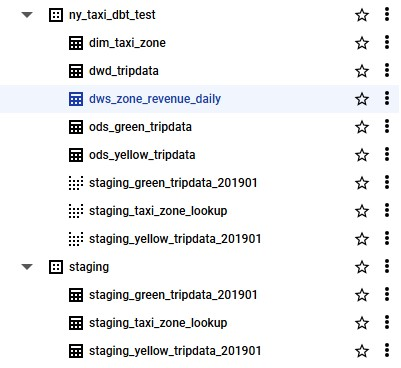
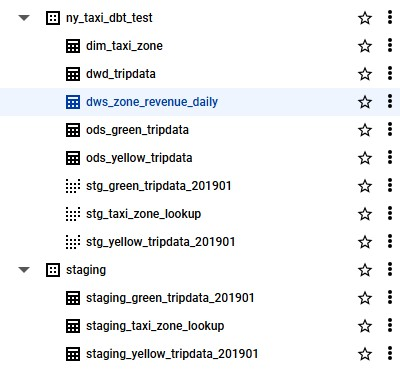
update stg

diff --git a/dbt/README.md b/dbt/README.md
@@ -17,9 +17,9 @@ If you want to create a new project:
 
 # Data structures:
 ## staging:
-    staging_yellow_tripdata_201901
-    staging_green_tripdata_201901
-    staging_taxi_zone_lookup
+    stg_yellow_tripdata_201901
+    stg_green_tripdata_201901
+    stg_taxi_zone_lookup
 ## ods:
     ods_yellow_tripdata
     ods_green_tripdata
